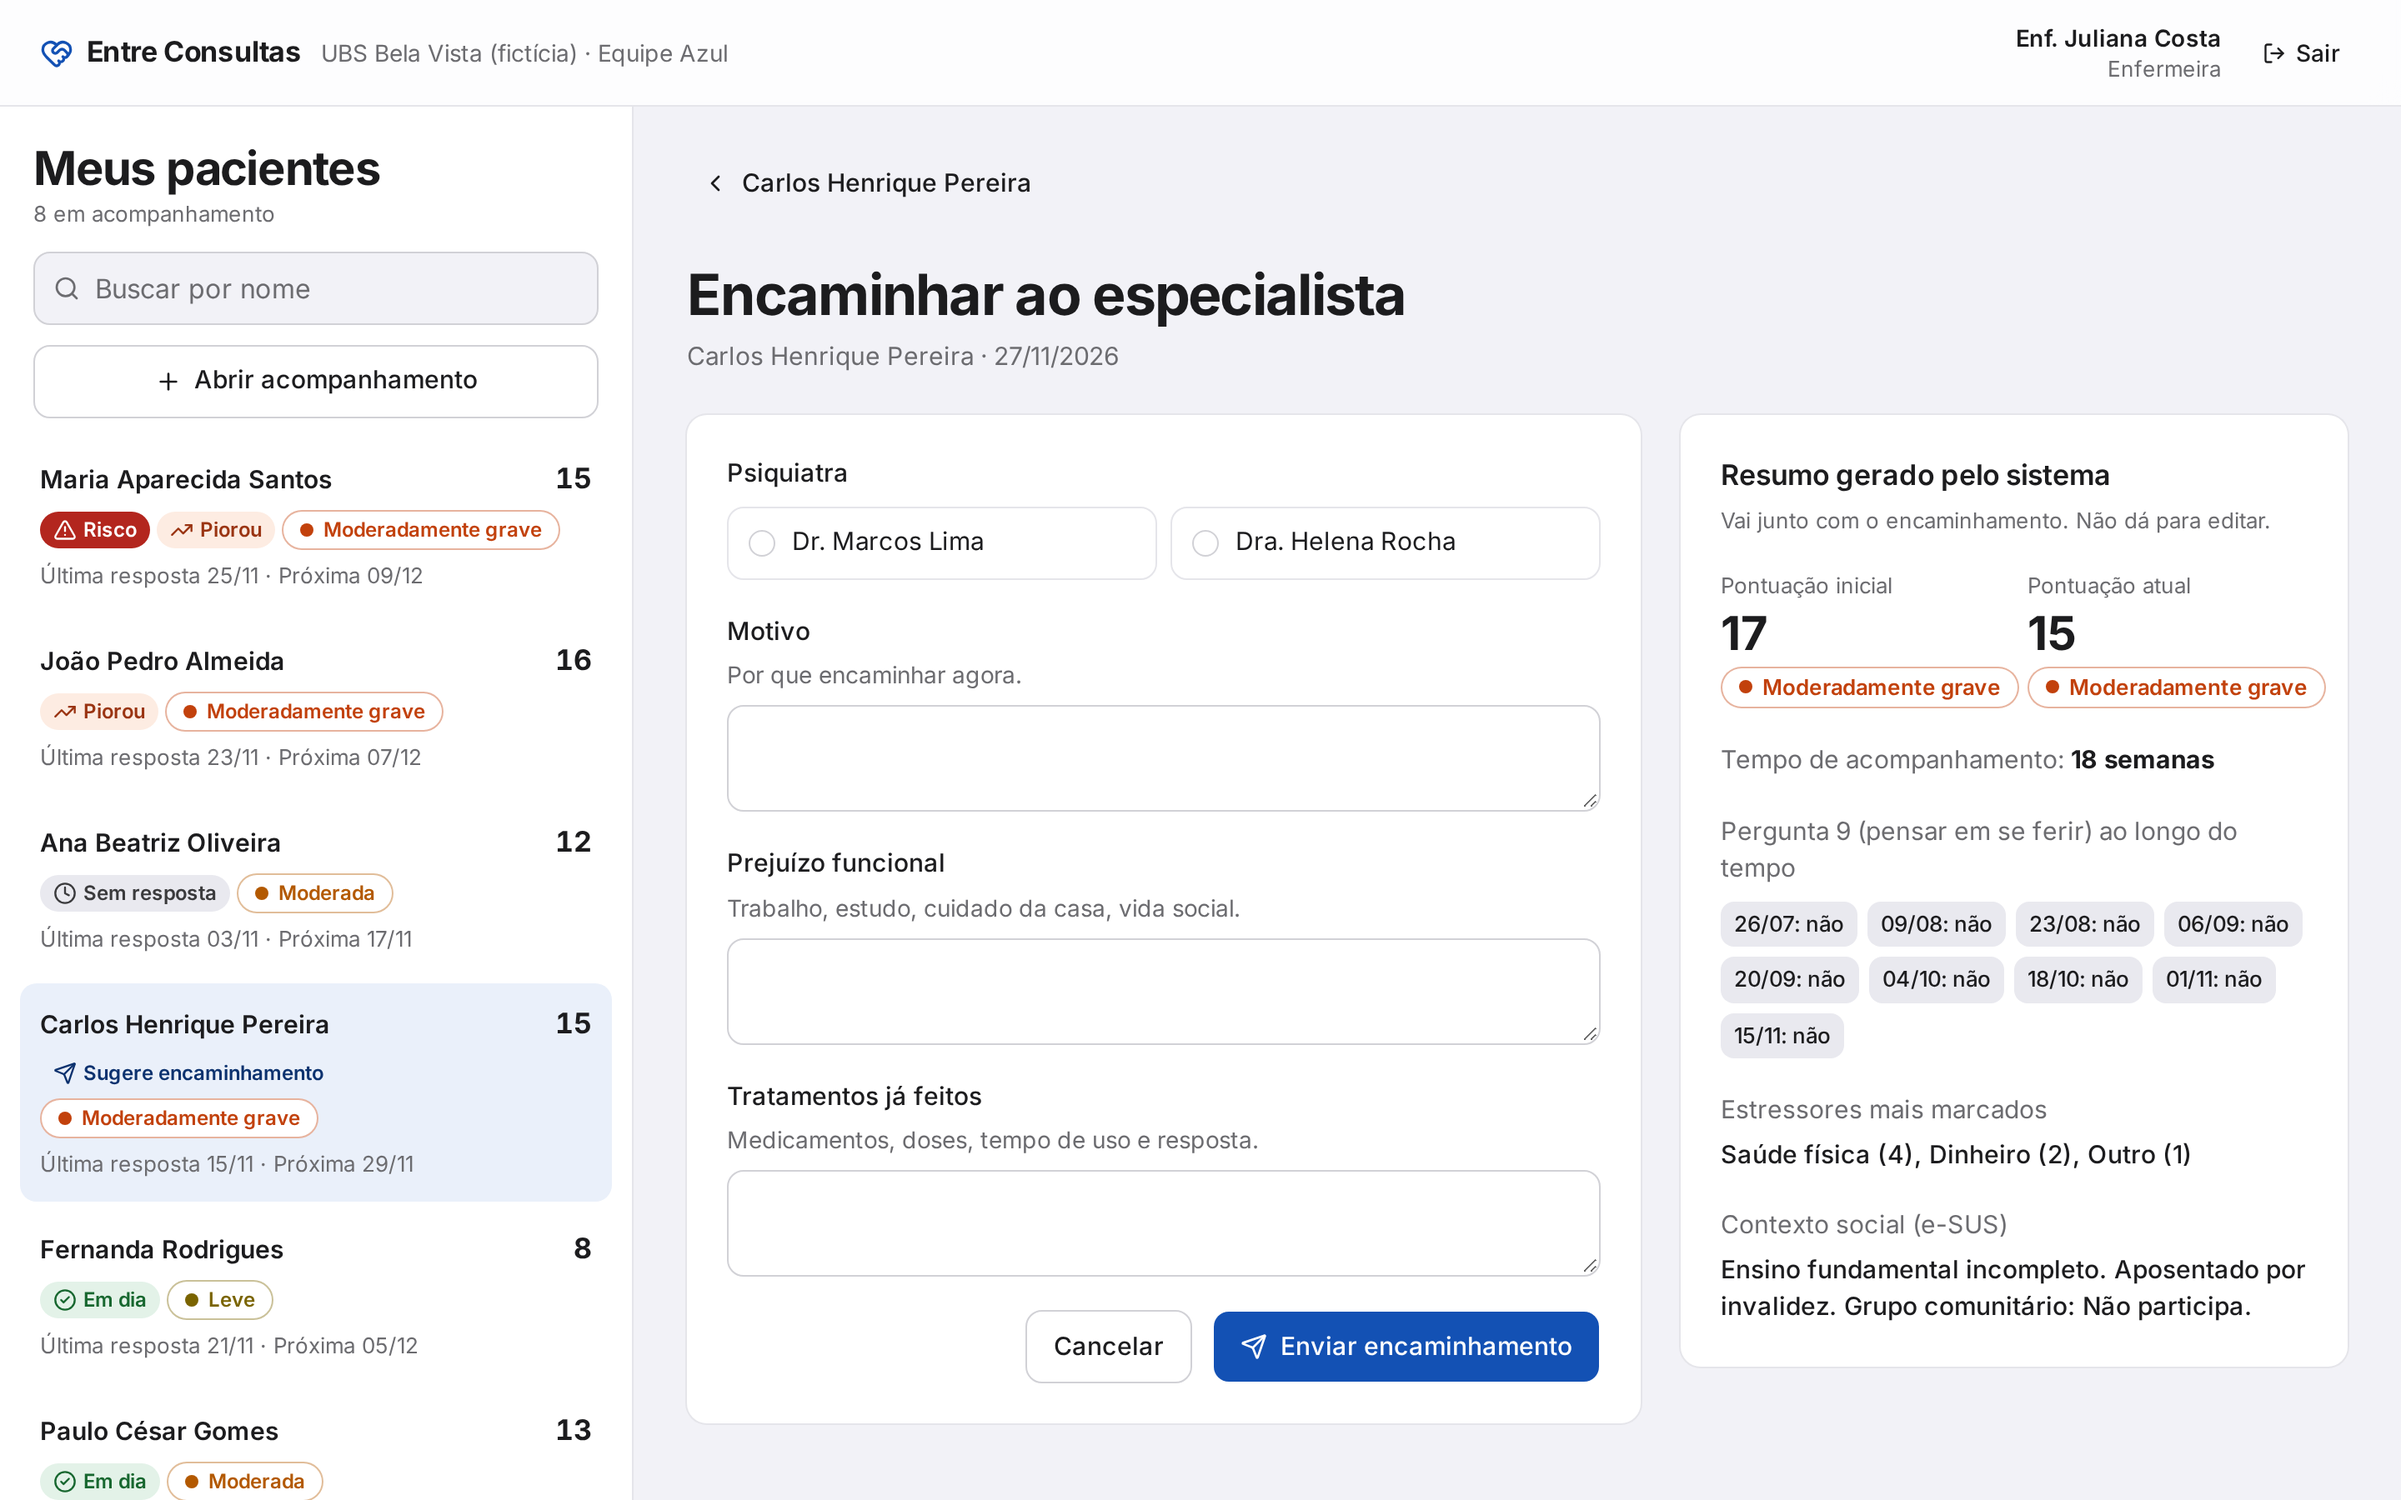
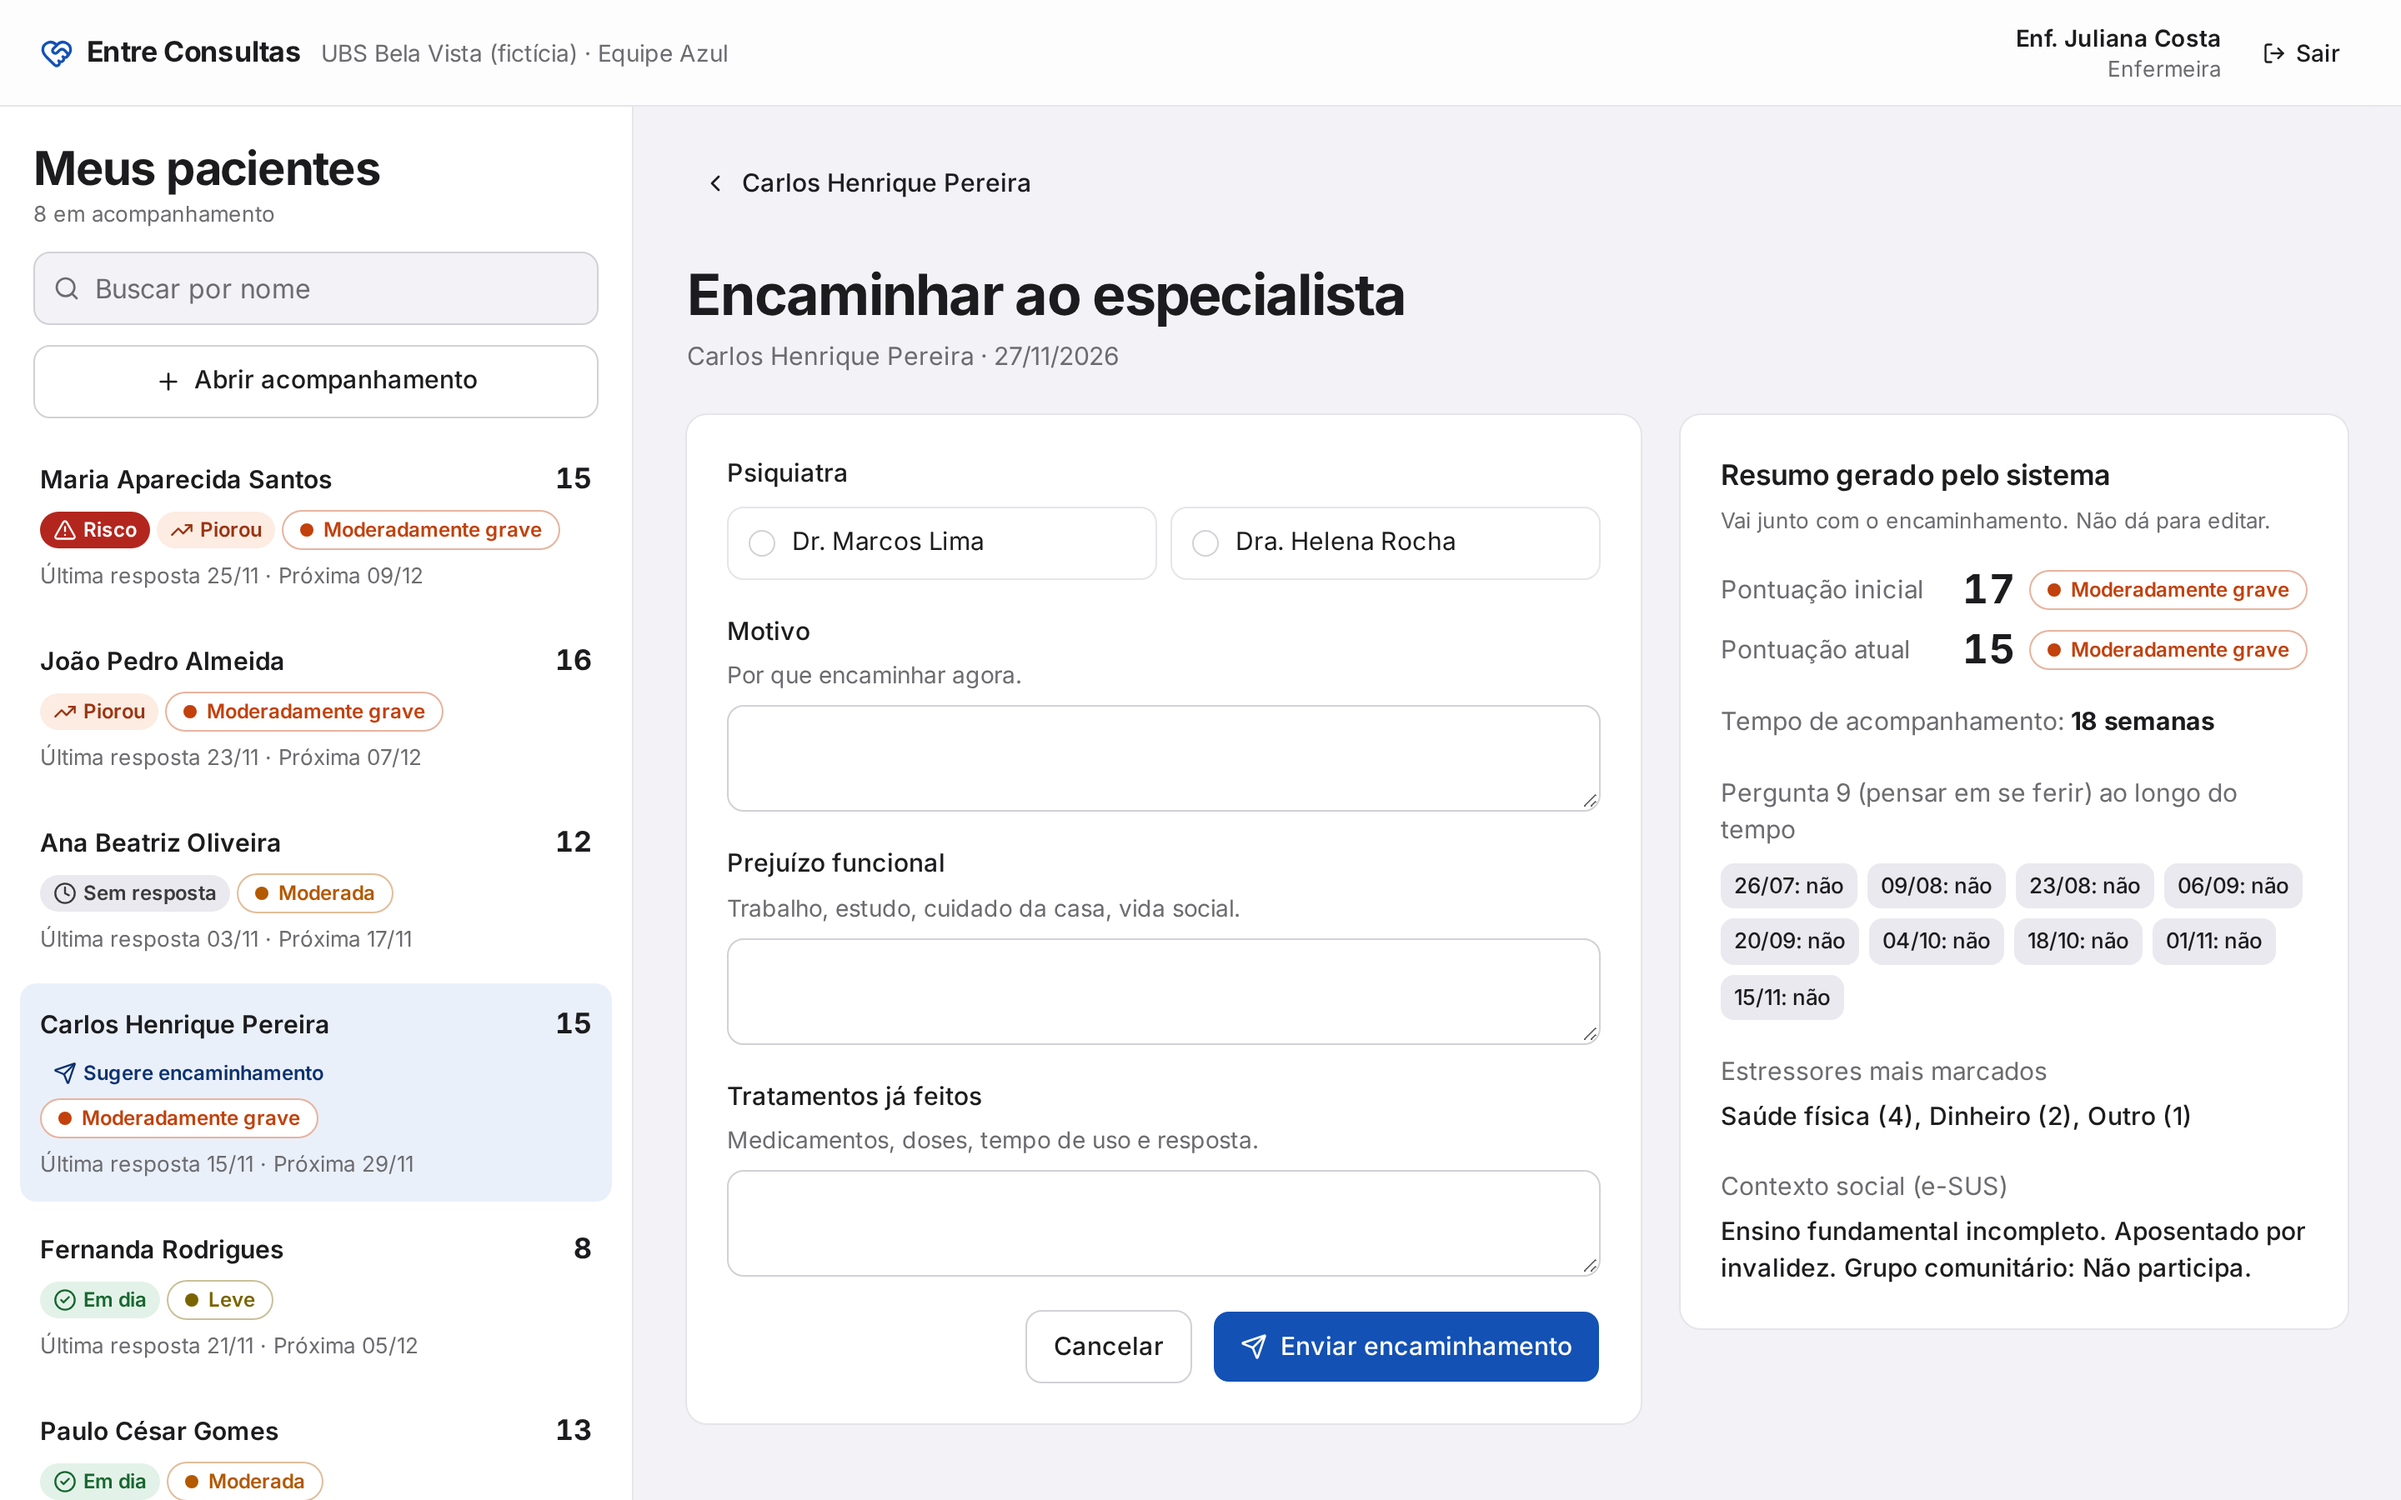
fix(telas): ajustar acabamento do gráfico, do resumo e dos botões do WhatsApp
Os rótulos das faixas encostavam no último ponto do gráfico, o resumo do encaminhamento estourava o cartão e os botões do WhatsApp ficavam da largura do balão curto. O print 06 passa a mostrar o estressor escolhido com o "Mais algum?", como pede a spec.

Changed region(s): [[0.7188, 0.3733, 0.9688, 0.9022]]

diff --git a/src/componentes/ResumoGerado.tsx b/src/componentes/ResumoGerado.tsx
@@ -6,11 +6,11 @@ import { BadgeFaixa } from './BadgeFaixa'
 
 function Numero({ rotulo, valor }: { rotulo: string; valor: number | null }) {
   return (
-    <div>
-      <p className="text-[13px] text-muted-foreground">{rotulo}</p>
-      <div className="mt-1 flex flex-col items-start gap-1.5">
-        <span className="text-[28px] leading-none font-bold">{valor ?? '-'}</span>
-        {valor !== null && <BadgeFaixa pontuacao={valor} />}
+    <div className="flex items-center justify-between gap-3">
+      <p className="whitespace-nowrap text-muted-foreground">{rotulo}</p>
+      <div className="flex items-center gap-2">
+        <span className="text-[24px] leading-none font-bold tabular-nums">{valor ?? '-'}</span>
+        {valor !== null && <BadgeFaixa pontuacao={valor} className="text-[12px]" />}
       </div>
     </div>
   )
@@ -20,7 +20,7 @@ function Numero({ rotulo, valor }: { rotulo: string; valor: number | null }) {
 export function ResumoGerado({ resumo }: { resumo: ResumoEncaminhamento }) {
   return (
     <div className="flex flex-col gap-5 text-[15px]">
-      <div className="grid grid-cols-2 gap-4">
+      <div className="flex flex-col gap-3">
         <Numero rotulo="Pontuação inicial" valor={resumo.pontuacaoInicial} />
         <Numero rotulo="Pontuação atual" valor={resumo.pontuacaoAtual} />
       </div>

diff --git a/scripts/prints.ts b/scripts/prints.ts
@@ -19,7 +19,7 @@ const PRINTS: Print[] = [
   { arquivo: '03-rf002-site-estressores', url: '/paciente/questionario?passo=estressores', usuario: 'fernanda', celular: true },
   { arquivo: '04-rf002-site-alerta-cvv', url: '/paciente/questionario?passo=alerta', usuario: 'fernanda', celular: true },
   { arquivo: '05-rf002-whatsapp-pergunta', url: '/whatsapp?passo=pergunta-2&lista=aberta', celular: true },
-  { arquivo: '06-rf002-whatsapp-estressores', url: '/whatsapp?passo=estressores', celular: true },
+  { arquivo: '06-rf002-whatsapp-estressores', url: '/whatsapp?passo=mais', celular: true },
   { arquivo: '07-rf002-whatsapp-alerta-cvv', url: '/whatsapp?passo=alerta', celular: true },
   { arquivo: '08-rf003-respostas-anteriores', url: '/paciente/respostas', usuario: 'fernanda', celular: true },
   { arquivo: '09-rf004-registrar-respostas', url: '/equipe/pacientes/luciana/registrar', usuario: 'juliana' },

diff --git a/src/componentes/GraficoEvolucao.tsx b/src/componentes/GraficoEvolucao.tsx
@@ -46,7 +46,7 @@ export function GraficoEvolucao({
   return (
     <figure className="flex flex-col gap-3">
       <ChartContainer config={config} className="aspect-auto h-[320px] w-full">
-        <LineChart data={pontos} margin={{ top: 12, right: 152, bottom: 4, left: -8 }}>
+        <LineChart data={pontos} margin={{ top: 12, right: 158, bottom: 4, left: -8 }}>
           {FAIXAS.map((f) => (
             <ReferenceArea
               key={f.id}
@@ -138,7 +138,7 @@ function RotuloFaixa({
   if (!viewBox) return null
   return (
     <text
-      x={viewBox.x + viewBox.width + 10}
+      x={viewBox.x + viewBox.width + 16}
       y={viewBox.y + viewBox.height / 2}
       textAnchor="start"
       dominantBaseline="middle"

diff --git a/src/telas/whatsapp/WhatsApp.tsx b/src/telas/whatsapp/WhatsApp.tsx
@@ -237,7 +237,13 @@ function Balao({
           {mensagem.separador}
         </p>
       )}
-      <div className={cn('flex max-w-[85%] flex-col gap-1', daEquipe ? 'self-start' : 'self-end')}>
+      <div
+        className={cn(
+          'flex max-w-[85%] flex-col gap-1',
+          daEquipe ? 'self-start' : 'self-end',
+          mensagem.botoes?.length && 'min-w-[240px]',
+        )}
+      >
         <div
           className={cn(
             'rounded-lg px-2.5 pt-1.5 pb-1 text-[15px] leading-snug whitespace-pre-line shadow-sm',
